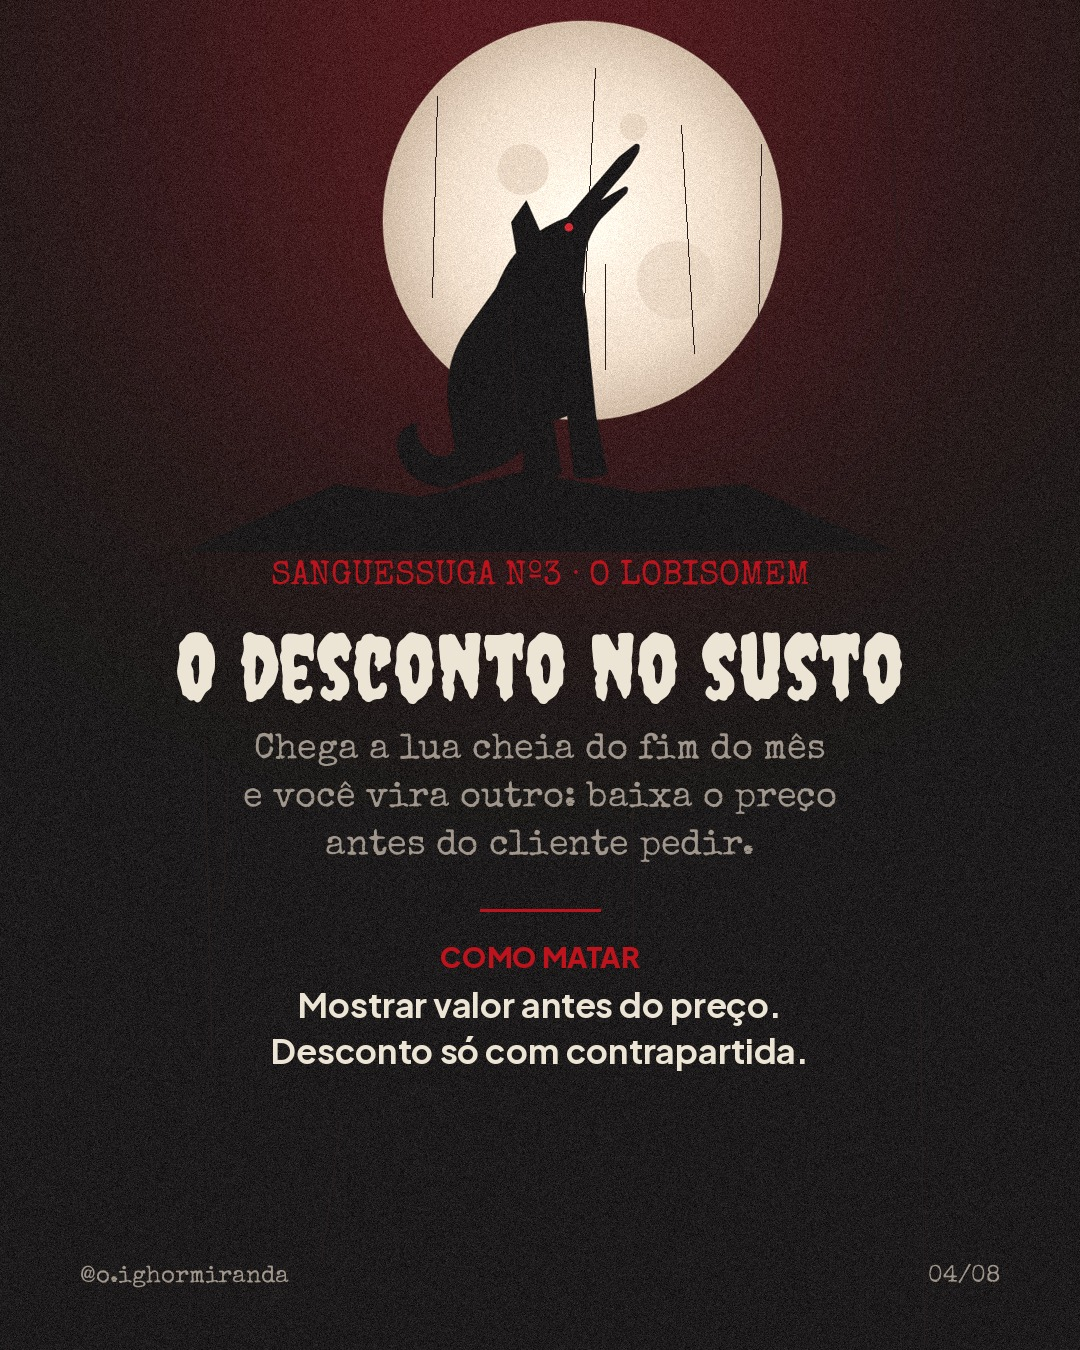
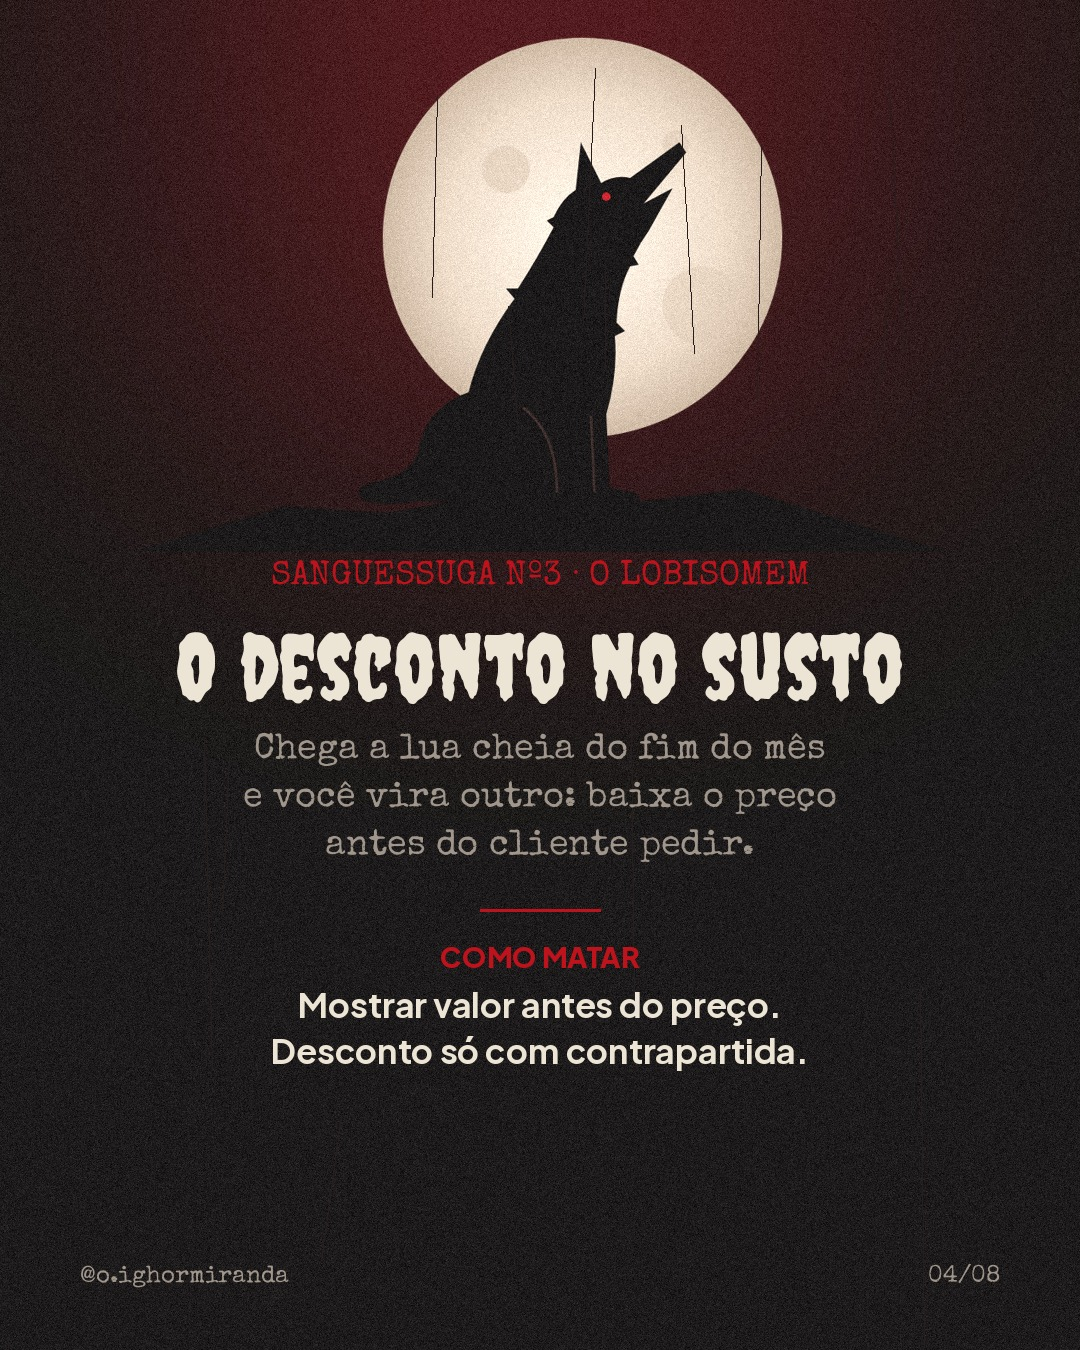
Sanguessuga: novo lobo uivando
Claude-Session: https://claude.ai/code/session_01487yXP275ARuLoBUohxHZV

diff --git a/ferramentas/monstros/monstros.py b/ferramentas/monstros/monstros.py
@@ -37,15 +37,19 @@ M['mumia']=svg(f'''
 ''')
 # LOBISOMEM uivando na lua cheia, no rochedo
 M['lobisomem']=svg(f'''
-<circle cx="590" cy="250" r="235" fill="url(#moon)"/>
-<circle cx="520" cy="190" r="30" fill="#c9b6a2" opacity=".6"/><circle cx="700" cy="320" r="46" fill="#c9b6a2" opacity=".5"/><circle cx="650" cy="140" r="16" fill="#c9b6a2" opacity=".6"/>
-<path d="M120 640 L300 560 L400 575 L520 545 L660 570 L780 560 L960 640Z" fill="#050303"/>
-<path fill="#050303" d="M430 565 Q380 560 372 520 Q370 492 396 488 Q392 512 412 524 Q430 532 440 520
-L432 470 Q426 420 452 380 L488 330 Q500 300 512 288 L506 252 L524 226 L540 262
-Q556 252 572 246 L632 176 L652 160 Q660 158 656 170 L646 186 L622 214 L612 226 L640 210 Q646 210 642 218 L612 248
-Q600 262 594 284 L590 330 Q596 360 598 400 L606 480 L620 548 Q600 556 580 552 L572 480 L556 486 L566 548 Q546 556 520 552 L520 520 Q500 540 470 548 Z"/>
-<path d="M520 300 L540 320" stroke="#be121c" stroke-width="0"/>
-<circle cx="574" cy="258" r="5" fill="#be121c"/>''')
+<circle cx="590" cy="270" r="235" fill="url(#moon)"/>
+<circle cx="500" cy="190" r="28" fill="#c9b6a2" opacity=".6"/><circle cx="730" cy="350" r="46" fill="#c9b6a2" opacity=".5"/><circle cx="700" cy="160" r="16" fill="#c9b6a2" opacity=".6"/>
+<g fill="#050303">
+<path d="M60 640 L240 586 L360 594 L480 572 L660 580 L780 566 L1020 640Z"/>
+<path d="M704 158 L646 200 Q628 196 612 206 L588 158 L582 214
+Q566 224 556 246 L548 250 L556 258 Q536 296 514 330 L500 330 L510 342
+Q470 396 456 452 Q404 470 396 524 Q386 548 352 556 Q318 562 330 578 Q350 588 400 580 L470 584 L648 584
+Q664 580 652 570 L622 564 L618 478 Q632 430 628 386 L640 380 L630 370 Q632 330 646 304 L656 302 L650 292 Q658 276 668 262
+L696 212 L662 230 L712 170 Z"/>
+</g>
+<path d="M520 470 Q560 500 560 570" stroke="#2a1a18" stroke-width="3" fill="none"/>
+<path d="M600 480 L604 570" stroke="#2a1a18" stroke-width="3" fill="none"/>
+<circle cx="618" cy="222" r="5" fill="#be121c"/>''')
 # CAVEIRA
 M['caveira']=svg(f'''
 <circle cx="540" cy="320" r="290" fill="url(#glow)"/>
